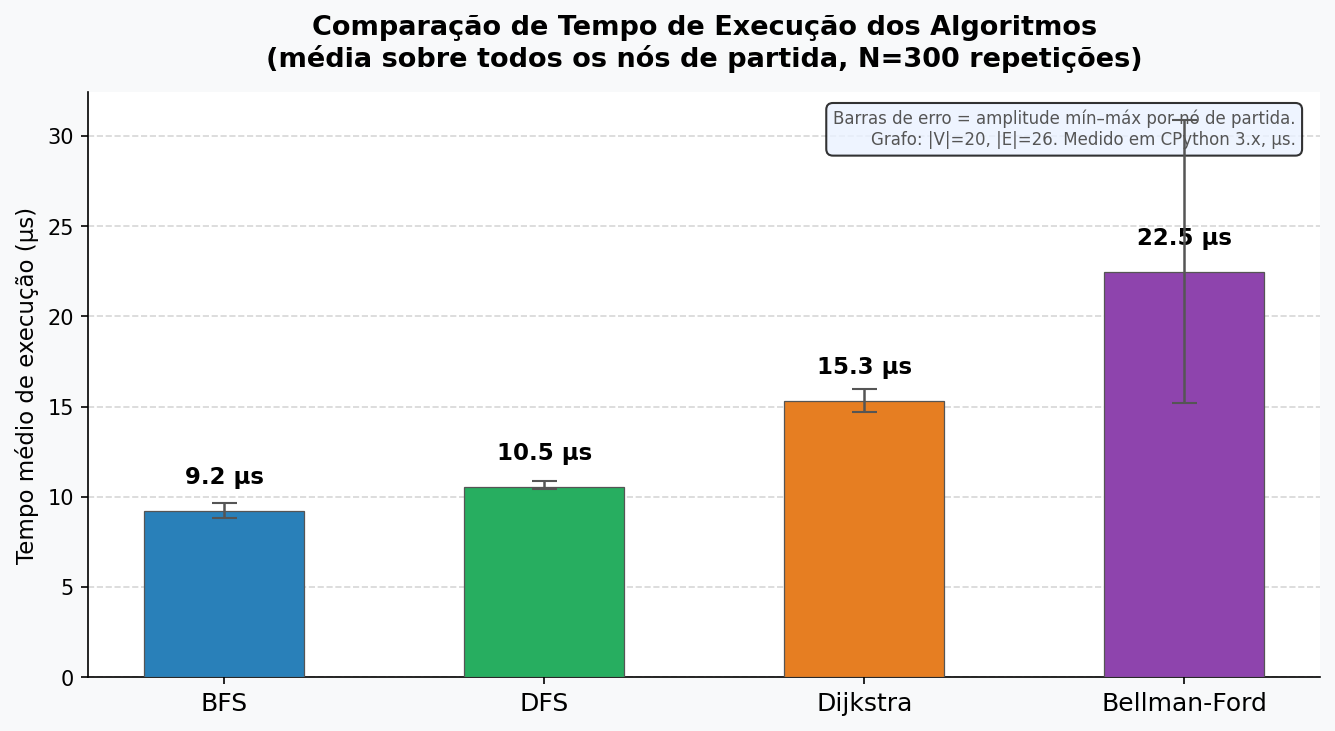
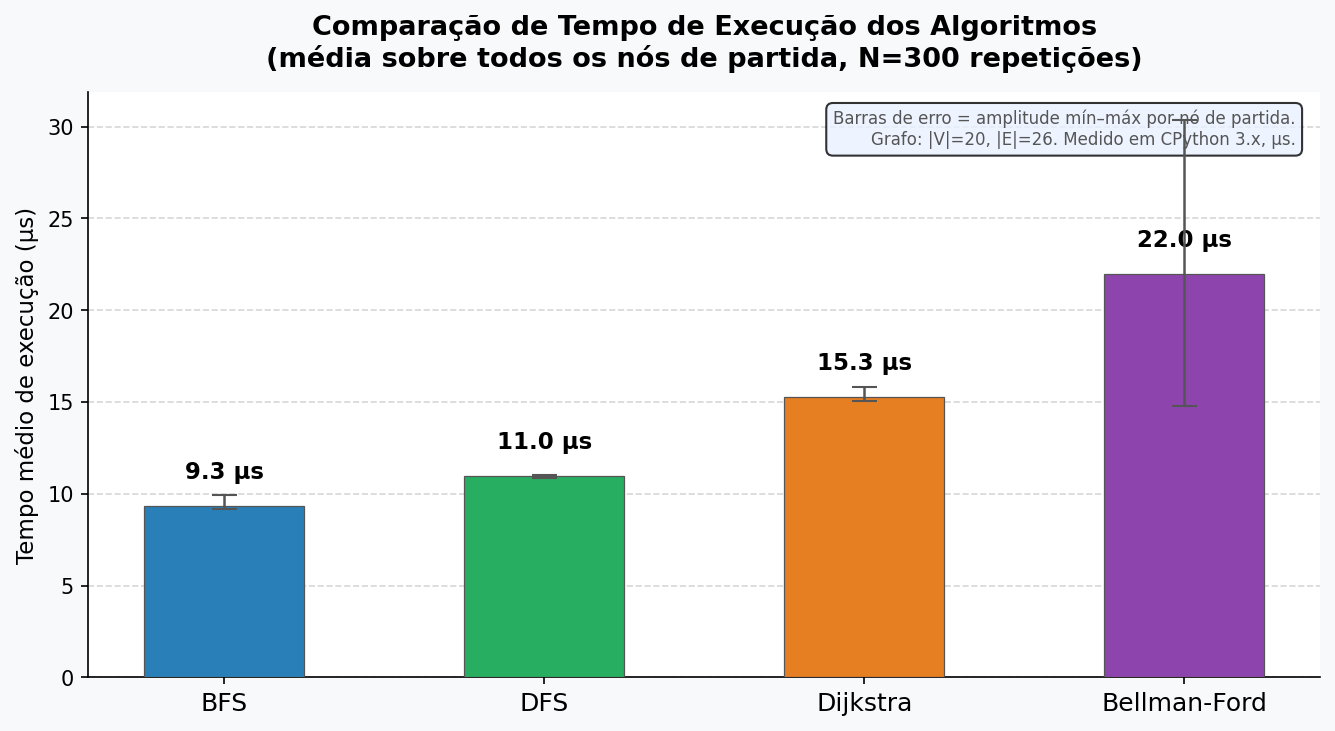
add viz complexidade comparacao

diff --git a/out/dashboard.html b/out/dashboard.html
@@ -447,7 +447,7 @@ const TIPO_COUNT  = {"regional": 14, "interregional": 12};
 const TIPO_PESO   = {"regional": 1.1071428571428572, "interregional": 2.0416666666666665};
 const REGIAO_CORES= {"Nordeste": "#e67e22", "Sudeste": "#1a6fa8", "Sul": "#27ae60", "Centro-Oeste": "#8e44ad", "Norte": "#c0392b"};
 const IATA_INFO   = {"REC": {"iata": "REC", "cidade": "Recife", "regiao": "Nordeste"}, "SSA": {"iata": "SSA", "cidade": "Salvador", "regiao": "Nordeste"}, "FOR": {"iata": "FOR", "cidade": "Fortaleza", "regiao": "Nordeste"}, "NAT": {"iata": "NAT", "cidade": "Natal", "regiao": "Nordeste"}, "JPA": {"iata": "JPA", "cidade": "João Pessoa", "regiao": "Nordeste"}, "GRU": {"iata": "GRU", "cidade": "São Paulo", "regiao": "Sudeste"}, "CGH": {"iata": "CGH", "cidade": "São Paulo", "regiao": "Sudeste"}, "GIG": {"iata": "GIG", "cidade": "Rio de Janeiro", "regiao": "Sudeste"}, "CNF": {"iata": "CNF", "cidade": "Belo Horizonte", "regiao": "Sudeste"}, "VIX": {"iata": "VIX", "cidade": "Vitória", "regiao": "Sudeste"}, "BSB": {"iata": "BSB", "cidade": "Brasília", "regiao": "Centro-Oeste"}, "GYN": {"iata": "GYN", "cidade": "Goiânia", "regiao": "Centro-Oeste"}, "CWB": {"iata": "CWB", "cidade": "Curitiba", "regiao": "Sul"}, "FLN": {"iata": "FLN", "cidade": "Florianópolis", "regiao": "Sul"}, "POA": {"iata": "POA", "cidade": "Porto Alegre", "regiao": "Sul"}, "MAO": {"iata": "MAO", "cidade": "Manaus", "regiao": "Norte"}, "BEL": {"iata": "BEL", "cidade": "Belém", "regiao": "Norte"}, "PVH": {"iata": "PVH", "cidade": "Porto Velho", "regiao": "Norte"}, "RBR": {"iata": "RBR", "cidade": "Rio Branco", "regiao": "Norte"}, "THE": {"iata": "THE", "cidade": "Teresina", "regiao": "Nordeste"}};
-const HUBS_SET    = ["POA", "GRU", "MAO", "BSB", "REC"];
+const HUBS_SET    = ["POA", "BSB", "MAO", "GRU", "REC"];
 const GRAU_MEDIO  = 2.6000;
 const HUBS_GRAU   = [{"iata": "GRU", "grau": 7}, {"iata": "REC", "grau": 5}, {"iata": "MAO", "grau": 5}, {"iata": "BSB", "grau": 4}, {"iata": "POA", "grau": 4}];
 const OTHERS_GRAU = [{"iata": "SSA", "grau": 4}, {"iata": "CGH", "grau": 3}, {"iata": "FOR", "grau": 2}, {"iata": "JPA", "grau": 2}, {"iata": "CNF", "grau": 2}, {"iata": "GYN", "grau": 2}, {"iata": "FLN", "grau": 2}, {"iata": "BEL", "grau": 2}, {"iata": "PVH", "grau": 2}, {"iata": "NAT", "grau": 1}, {"iata": "GIG", "grau": 1}, {"iata": "VIX", "grau": 1}, {"iata": "CWB", "grau": 1}, {"iata": "RBR", "grau": 1}, {"iata": "THE", "grau": 1}];

diff --git a/src/viz.py b/src/viz.py
@@ -562,6 +562,86 @@ def viz_comparacao_algoritmos(g: Graph, out_path: Path) -> None:
     print(f"  ✔ {out_path}")
 
 
+def viz_scatter_complexidade(g: Graph, out_path: Path) -> None:
+    import time
+    from collections import deque
+
+    def bfs_ordem(g, start):
+        visited, seen, q = [], set(), deque([start])
+        seen.add(start)
+        while q:
+            node = q.popleft()
+            visited.append(node)
+            for nb in g.neighbors(node):
+                if nb not in seen:
+                    seen.add(nb)
+                    q.append(nb)
+        return visited
+
+    from graphs.algorithms import bfs as _bfs, dfs as _dfs, dijkstra as _dijkstra, bellman_ford as _bf
+
+    algoritmos = [
+        ("BFS",          _bfs,      "#2980b9", "o",  "-"),
+        ("DFS",          _dfs,      "#27ae60", "s",  "--"),
+        ("Dijkstra",     _dijkstra, "#e67e22", "^",  "-."),
+        ("Bellman-Ford", _bf,       "#8e44ad", "D",  ":"),
+    ]
+
+    ordem_nos = bfs_ordem(g, "GRU")
+    tamanhos  = [5, 8, 10, 13, 15, 17, 20]
+    N = 500
+
+    # {nome: [(ordem, tempo_us), ...]}
+    dados: dict[str, list[tuple[int, float]]] = {a[0]: [] for a in algoritmos}
+
+    for tam in tamanhos:
+        sub = g.induced_subgraph(set(ordem_nos[:tam]))
+        starts = list(sub.nodes)
+        for nome, fn, *_ in algoritmos:
+            total = 0.0
+            for s in starts:
+                t0 = time.perf_counter()
+                for _ in range(N):
+                    fn(sub, s)
+                total += (time.perf_counter() - t0) / N
+            dados[nome].append((tam, total / len(starts) * 1e6))
+
+    fig, ax = plt.subplots(figsize=(9, 5))
+    fig.patch.set_facecolor("#f8f9fa")
+    ax.set_facecolor("#ffffff")
+
+    for nome, _, cor, marker, ls in algoritmos:
+        xs = [p[0] for p in dados[nome]]
+        ys = [p[1] for p in dados[nome]]
+        ax.plot(xs, ys, color=cor, marker=marker, linestyle=ls,
+                linewidth=1.8, markersize=7, zorder=3, label=nome)
+        for x, y in zip(xs, ys):
+            ax.annotate(f"{y:.1f}", (x, y), textcoords="offset points",
+                        xytext=(0, 7), ha="center", fontsize=7.5, color=cor)
+
+    ax.set_title("Ordem do Grafo × Tempo de Execução por Algoritmo\n"
+                 "(subgrafos induzidos crescentes, N=500 repetições por nó de partida)",
+                 fontsize=13, fontweight="bold", pad=12)
+    ax.set_xlabel("Ordem do grafo |V| (número de nós)", fontsize=11)
+    ax.set_ylabel("Tempo médio de execução (µs)", fontsize=11)
+    ax.set_xticks(tamanhos)
+    ax.yaxis.grid(True, linestyle="--", alpha=0.5, zorder=0)
+    ax.xaxis.grid(True, linestyle=":", alpha=0.3, zorder=0)
+    ax.set_axisbelow(True)
+    ax.spines[["top", "right"]].set_visible(False)
+    ax.legend(fontsize=9, loc="upper left")
+
+    nota = "Subgrafos construídos por expansão BFS a partir de GRU.\nEscala µs; tamanho fixo de arestas proporcional a |V|."
+    ax.text(0.98, 0.05, nota, transform=ax.transAxes, fontsize=7.5,
+            va="bottom", ha="right", color="#555",
+            bbox=dict(boxstyle="round,pad=0.4", facecolor="#eaf2ff", alpha=0.8))
+
+    plt.tight_layout()
+    fig.savefig(out_path, dpi=150, bbox_inches="tight")
+    plt.close(fig)
+    print(f"  ✔ {out_path}")
+
+
 VIZ_DESCRIPTIONS = [
     {
         "key":    "viz_graus_hist",
@@ -756,6 +836,38 @@ VIZ_DESCRIPTIONS = [
             "a variância observada, evitando a ilusão de precisão que uma barra sem erro transmitiria. "
             "A anotação do valor médio sobre cada barra elimina a necessidade de leitura no eixo, "
             "reduzindo a carga cognitiva."
+        ),
+    },
+    {
+        "key":    "viz_scatter_complexidade",
+        "titulo": "Ordem do Grafo × Tempo de Execução",
+        "tipo":   "Exploratória",
+        "cor":    "#3b82f6",
+        "o_que":  (
+            "O gráfico de linhas com marcadores correlaciona a ordem do grafo |V| com o tempo médio "
+            "de execução (em µs) de cada um dos quatro algoritmos — BFS, DFS, Dijkstra e Bellman-Ford. "
+            "Os pontos foram obtidos executando cada algoritmo em subgrafos induzidos de tamanho "
+            "crescente (|V| = 5, 8, 10, 13, 15, 17 e 20 nós), construídos por expansão BFS a partir "
+            "de GRU. Cada ponto representa a média sobre N=500 repetições por nó de partida."
+        ),
+        "insight": (
+            "Todos os algoritmos exibem crescimento aproximadamente linear no intervalo |V| ∈ [5, 20], "
+            "o que é esperado para grafos esparsos onde |E| ≈ 1,3·|V|. BFS cresce mais devagar por "
+            "operar com estrutura de dados simples (fila). DFS tem inclinação levemente maior pelo "
+            "custo de manutenção da pilha. Dijkstra e Bellman-Ford crescem em inclinações "
+            "progressivamente maiores: Dijkstra pela fila de prioridade e Bellman-Ford pelo laço "
+            "V−1 sobre todas as arestas. A separação entre as curvas aumenta conforme |V| cresce, "
+            "tornando visível empiricamente a diferença de complexidade assintótica entre "
+            "O(V+E), O((V+E) log V) e O(V·E)."
+        ),
+        "por_que": (
+            "Gráfico de linhas com marcadores é o tipo adequado para mostrar evolução de uma "
+            "variável contínua (tempo) em função de outra variável ordinal discreta (ordem do grafo), "
+            "permitindo comparar múltiplas séries simultaneamente. A linha conecta os pontos e "
+            "comunica tendência; o marcador distinto por algoritmo (círculo, quadrado, triângulo, "
+            "losango) aplica dupla codificação visual — cor e forma — garantindo distinguibilidade "
+            "mesmo em impressão monocromática. O estilo de linha diferenciado (sólido, tracejado, "
+            "traço-ponto, pontilhado) adiciona uma terceira dimensão de separação visual."
         ),
     },
     {
@@ -1823,8 +1935,11 @@ def run(
     print("\n[9/10] Hubs vs aeroportos comuns...")
     viz_hubs_vs_comuns(g, out_dir / "viz_hubs_vs_comuns.png")
 
-    print("\n[10/10] Comparação de tempo de execução dos algoritmos...")
+    print("\n[10/11] Comparação de tempo de execução dos algoritmos...")
     viz_comparacao_algoritmos(g, out_dir / "viz_comparacao_algoritmos.png")
+
+    print("\n[11/11] Scatter ordem do grafo × tempo de execução...")
+    viz_scatter_complexidade(g, out_dir / "viz_scatter_complexidade.png")
 
     print("\n[+] Grafo interativo completo...")
     viz_grafo_interativo(g, out_dir / "grafo_interativo.html")